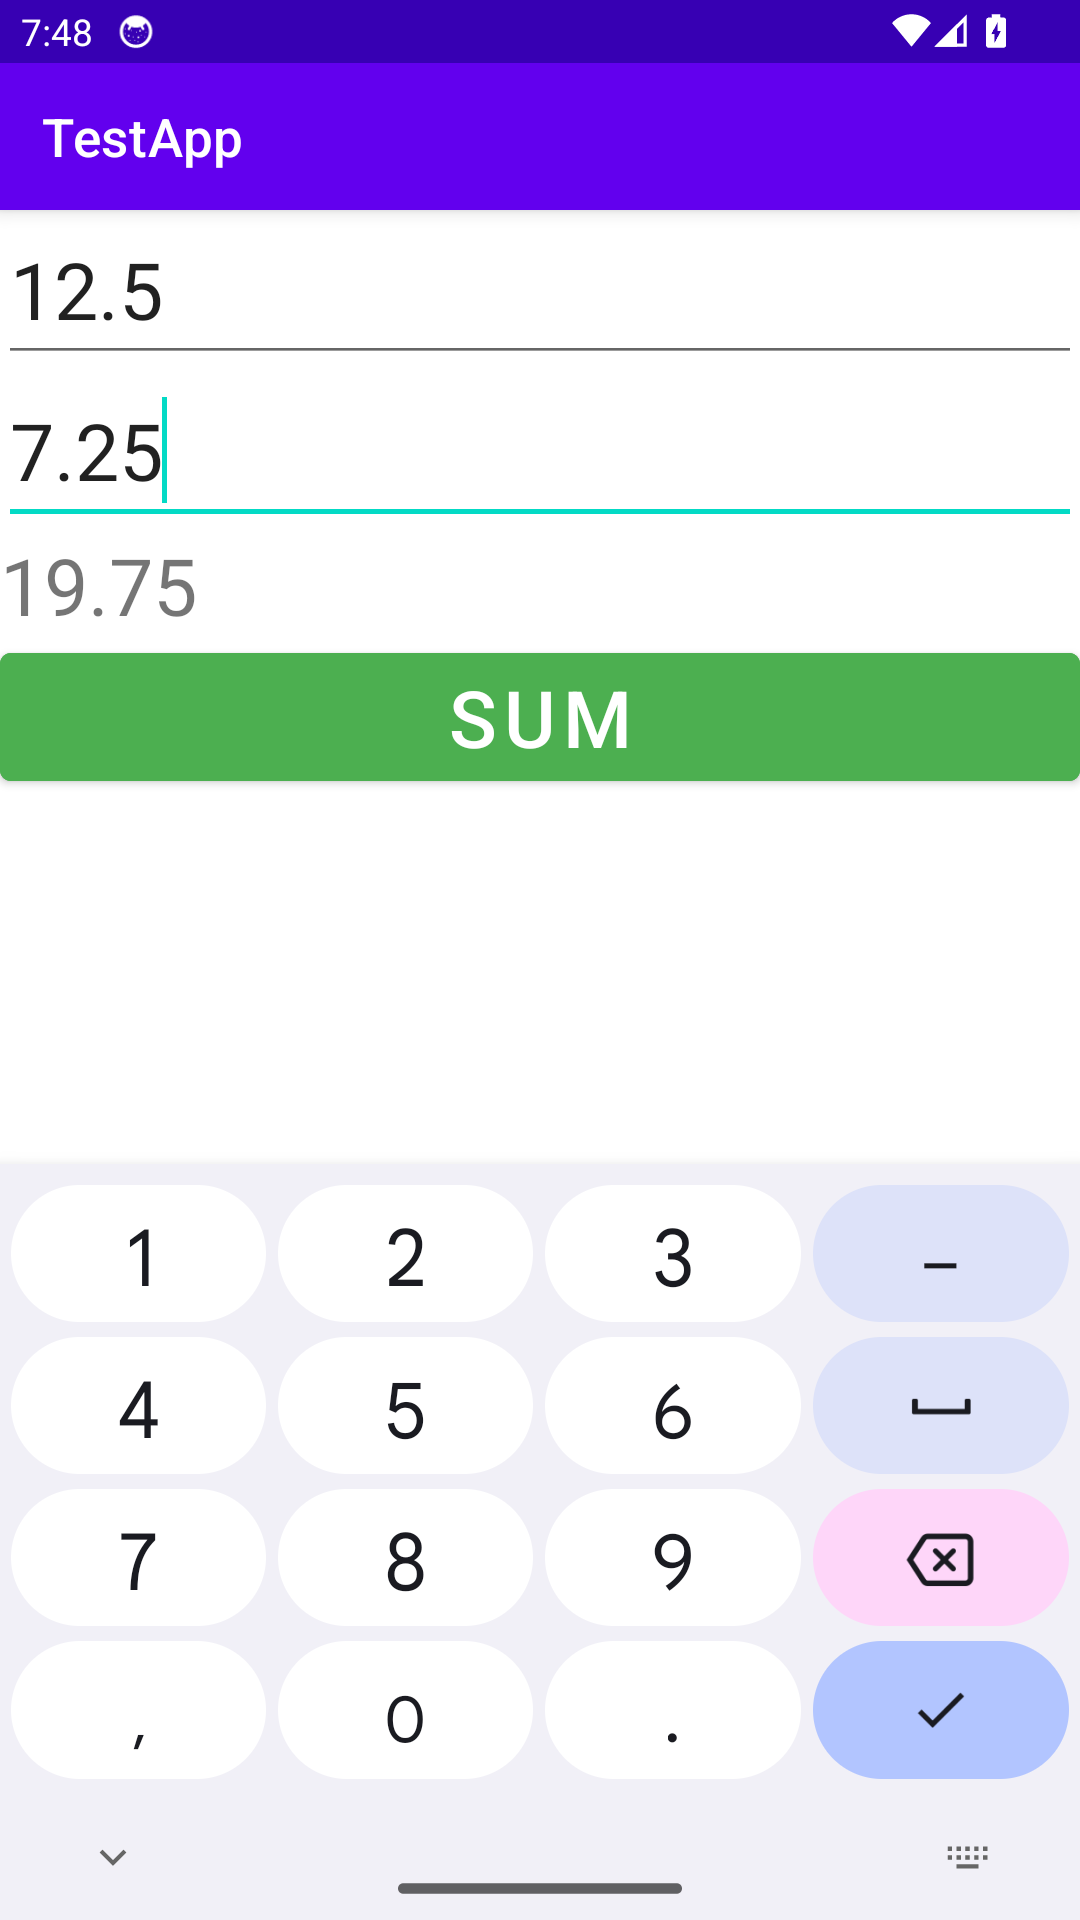
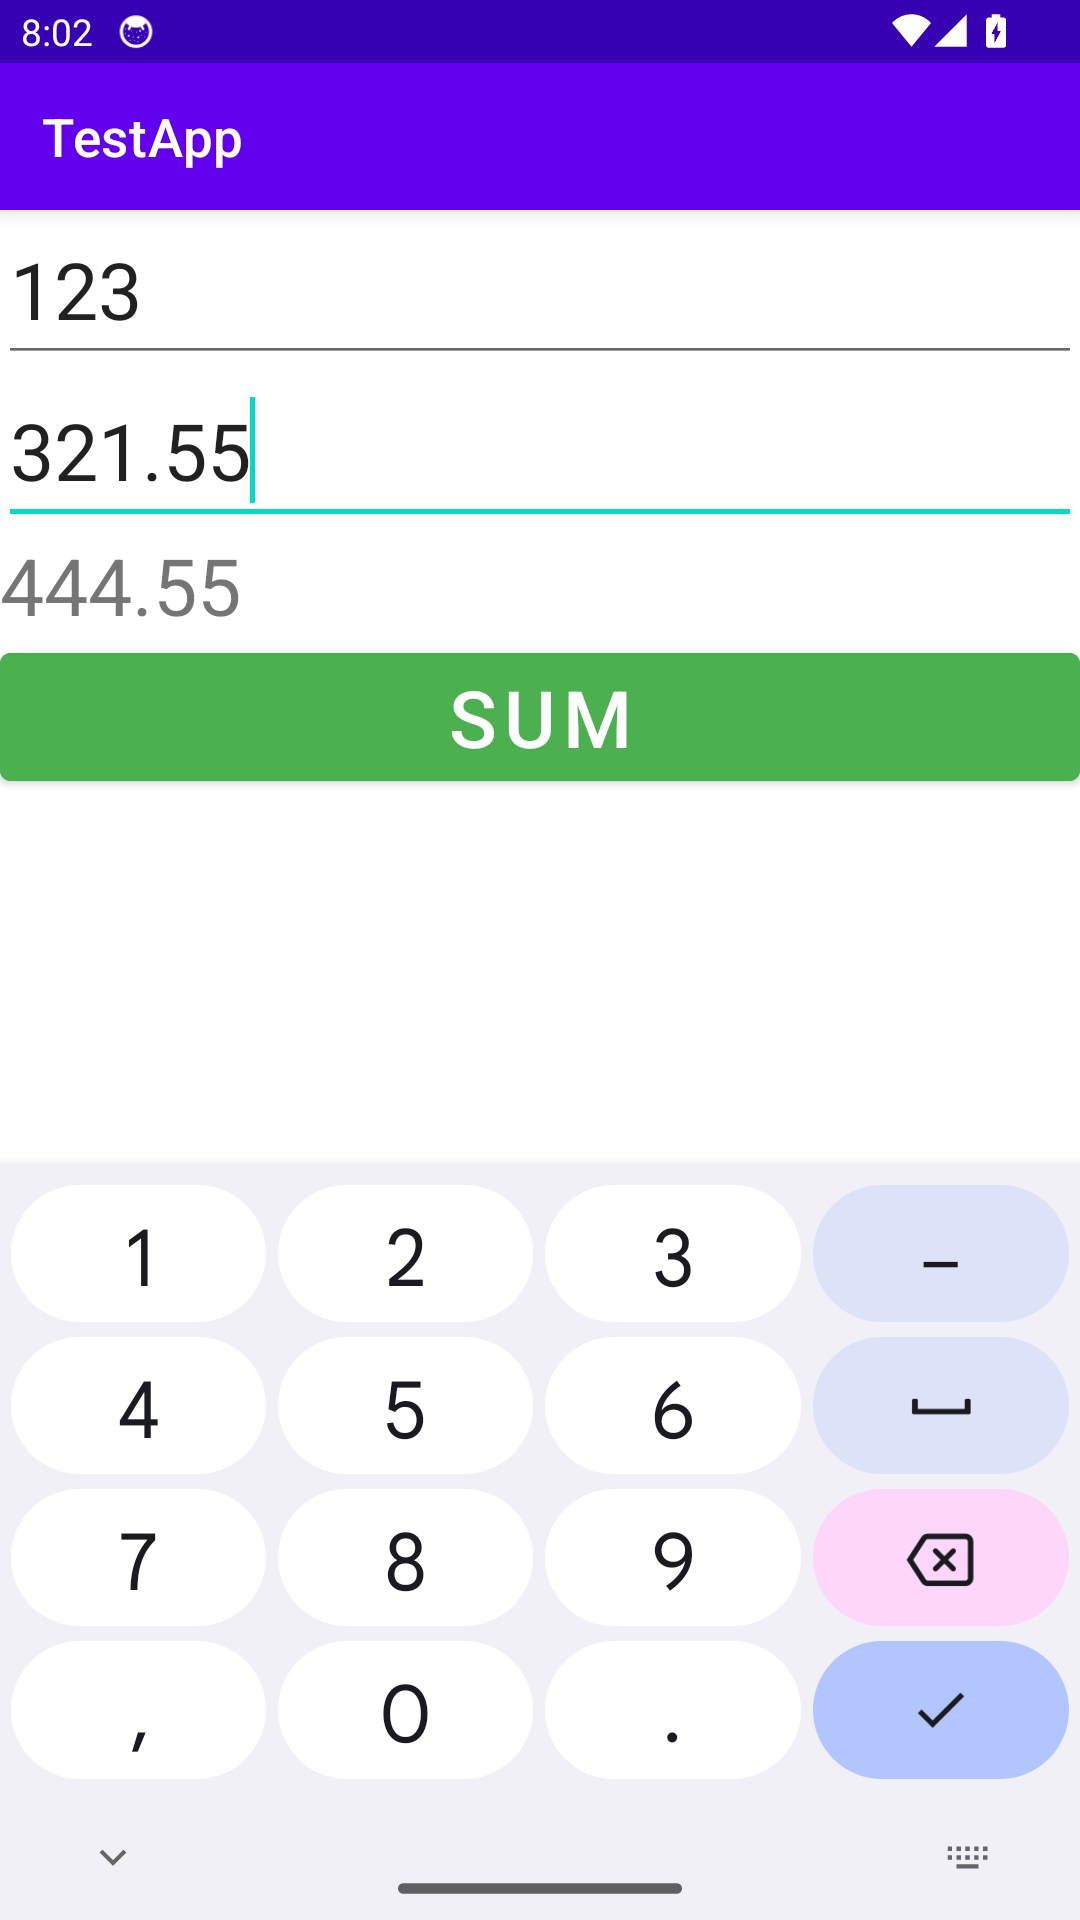
Update AddToNumK based on reference: remove README, simplify logic, update screenshots

diff --git a/AddToNumK/app/src/main/java/com/example/testapp/MainActivity.kt b/AddToNumK/app/src/main/java/com/example/testapp/MainActivity.kt
@@ -5,42 +5,29 @@ import android.os.Bundle
 import android.view.View
 import android.widget.EditText
 import android.widget.TextView
-import android.widget.Toast
 
 class MainActivity : AppCompatActivity() {
+    lateinit var numA: EditText
+    lateinit var numB: EditText
+    lateinit var tvSum: TextView
+
     override fun onCreate(savedInstanceState: Bundle?) {
         super.onCreate(savedInstanceState)
         setContentView(R.layout.activity_main)
+
+        numA = findViewById(R.id.numA)
+        numB = findViewById(R.id.numB)
+        tvSum = findViewById(R.id.sum)
     }
+
     // TODO: 1) реализовать проверку на пустые значения в полях numA, numB
     // TODO: 2) исправить разметку, чтобы можно было вводить только числа
     // TODO: 3) сделать поддержку вещественных (не целых чисел)
 
     fun onClick(v: View) {
-        val etA = findViewById<EditText>(R.id.numA)
-        val etB = findViewById<EditText>(R.id.numB)
-        val tvSum = findViewById<TextView>(R.id.sum)
-
-        val strA = etA.text.toString().trim()
-        val strB = etB.text.toString().trim()
-
-        if (strA.isEmpty() || strB.isEmpty()) {
-            if (strA.isEmpty()) etA.error = "Введите число"
-            if (strB.isEmpty()) etB.error = "Введите число"
-            Toast.makeText(this, "Заполните оба поля!", Toast.LENGTH_SHORT).show()
-            return
-        }
-
-        val numA = strA.toDoubleOrNull()
-        val numB = strB.toDoubleOrNull()
-
-        if (numA == null || numB == null) {
-            Toast.makeText(this, "Введите корректные числа!", Toast.LENGTH_SHORT).show()
-            return
-        }
-
-        val sum = numA + numB
-        val strSum = if (sum % 1.0 == 0.0) sum.toLong().toString() else sum.toString()
-        tvSum.text = strSum
+        val a = numA.text.toString().replace(',', '.').toDoubleOrNull() ?: 0.0
+        val b = numB.text.toString().replace(',', '.').toDoubleOrNull() ?: 0.0
+        val sum = a + b
+        tvSum.text = sum.toString()
     }
 }
